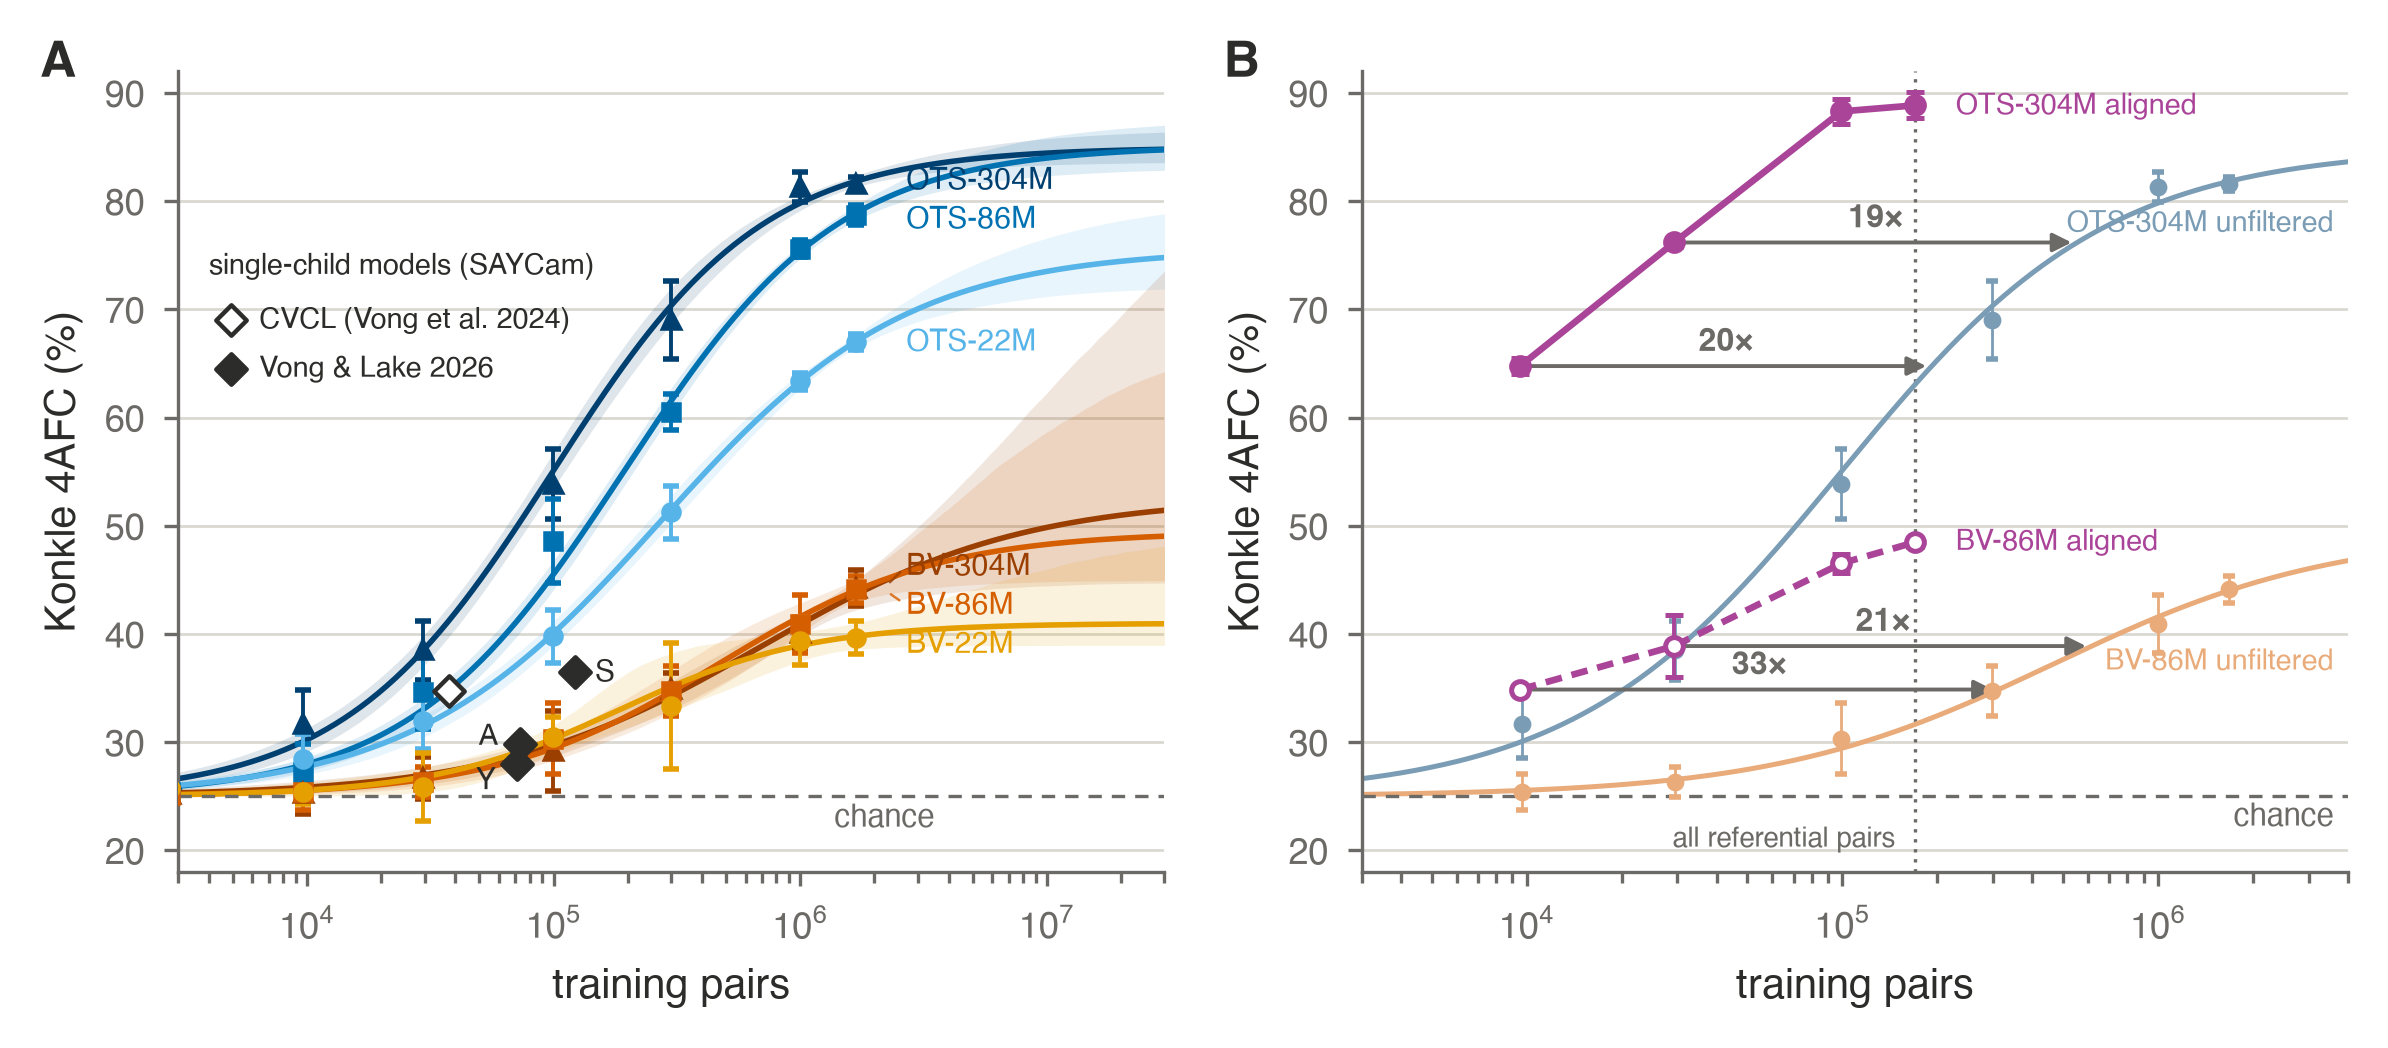
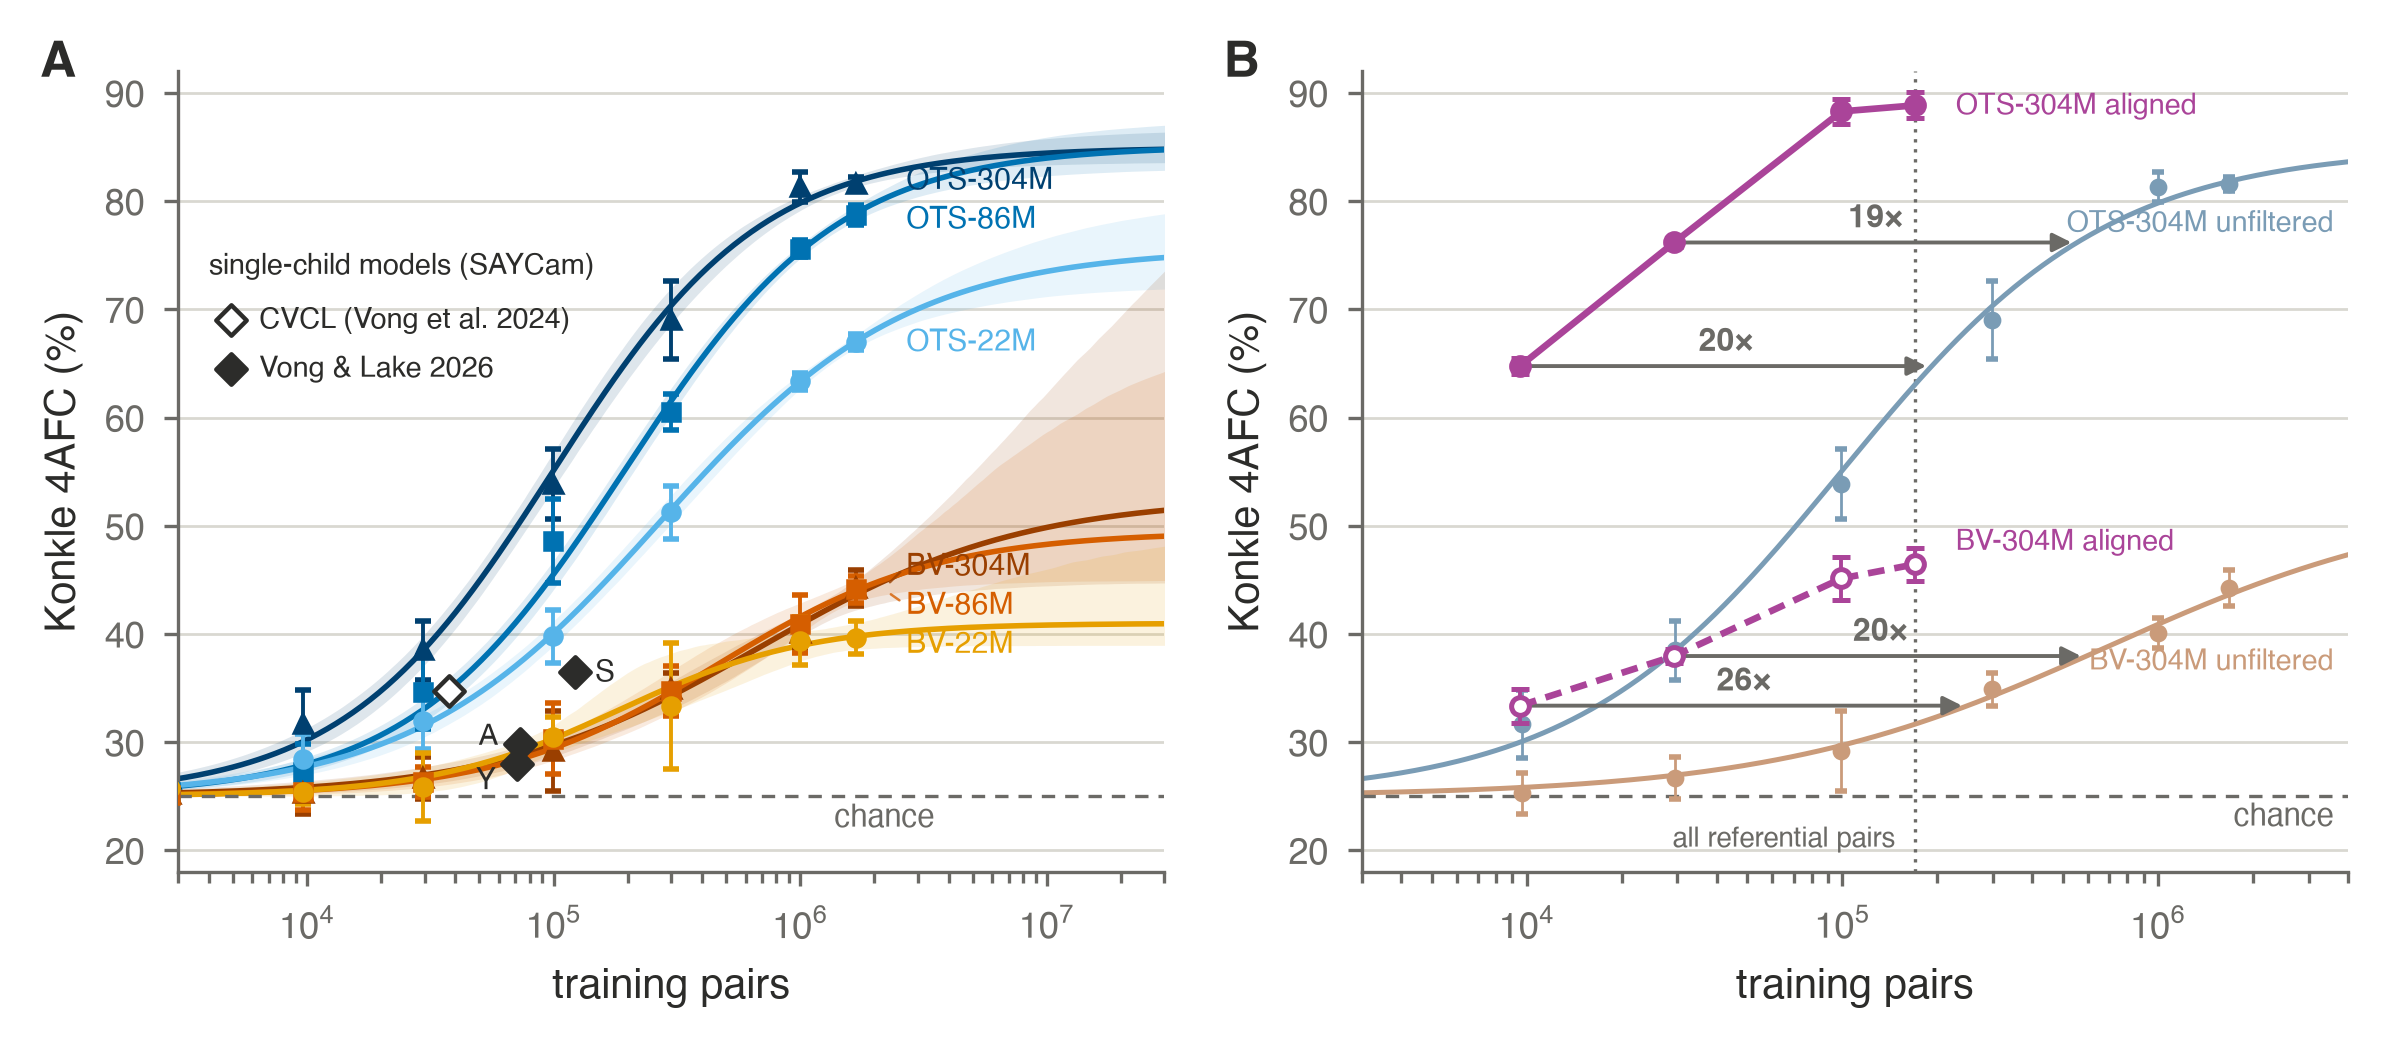
fig2B: BabyView arm is BV-304M, size-matched to OTS-304M (aligned runs already in runs.parquet)

diff --git a/figures/fig2_scaling.py b/figures/fig2_scaling.py
@@ -97,7 +97,7 @@ def fade(c, t=0.48):
 
 
 ENC_B = [("dinov3l", "-", True, (78.0, 88.8)),
-         ("vitb_bv", (0, (2.5, 1.5)), False, (37.5, 48.5))]
+         ("vitl_bv", (0, (2.5, 1.5)), False, (37.5, 48.5))]
 bgrid = np.logspace(3.3, 6.6, 220)
 align_end = None
 for enc, ls, filled, (uy_lab, ay_lab) in ENC_B:
